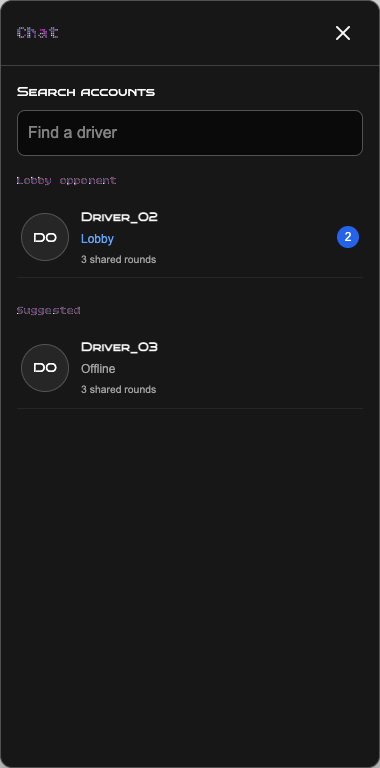
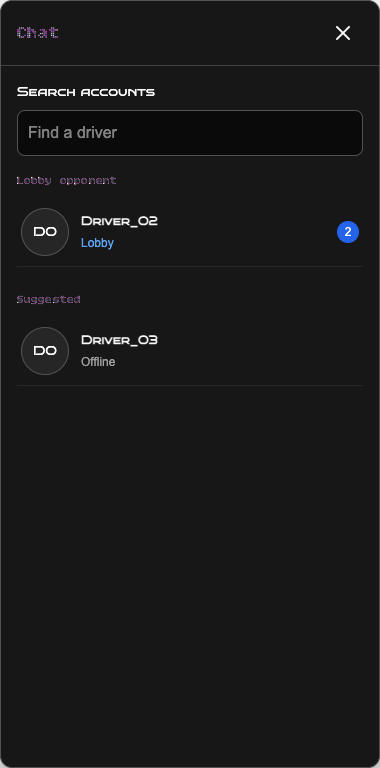
Remove shared-round counts from chat recipients

diff --git a/apps/client/src/components/Chat.tsx b/apps/client/src/components/Chat.tsx
@@ -376,7 +376,7 @@ function ChatPanel({
   const row = (person: ChatPerson) => (
     <button
       key={person.id}
-      className="flex w-full items-center gap-3 border-b border-neutral-800 px-1 py-2.5 text-left [&_strong]:text-[12px] [&_strong]:wrap-anywhere [&_small]:font-chat [&_small]:text-neutral-400"
+      className="flex w-full items-center gap-3 border-b border-neutral-800 px-1 py-2.5 text-left [&_strong]:text-[12px] [&_strong]:wrap-anywhere"
       aria-label={`Open conversation with ${person.username}`}
       onClick={() => open(person)}
     >
@@ -384,7 +384,6 @@ function ChatPanel({
       <span className="flex min-w-0 flex-1 flex-col gap-1">
         <strong>{person.username}</strong>
         <Presence value={person.presence} />
-        {person.rounds > 0 && <small>{person.rounds} shared rounds</small>}
       </span>
       {person.unread > 0 && (
         <span className={chatBadge}>
